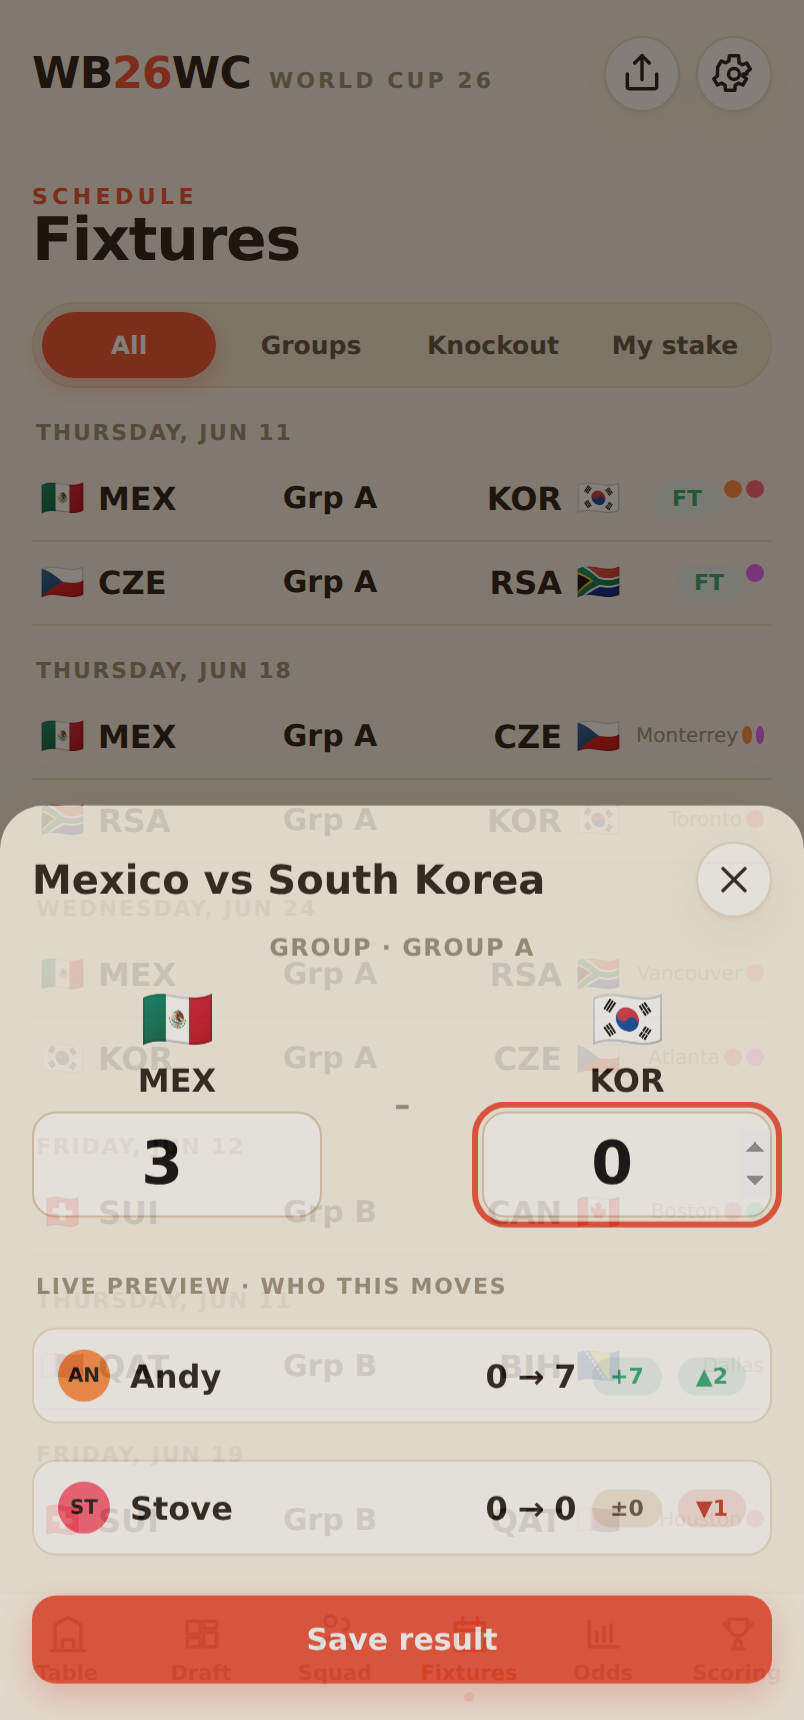
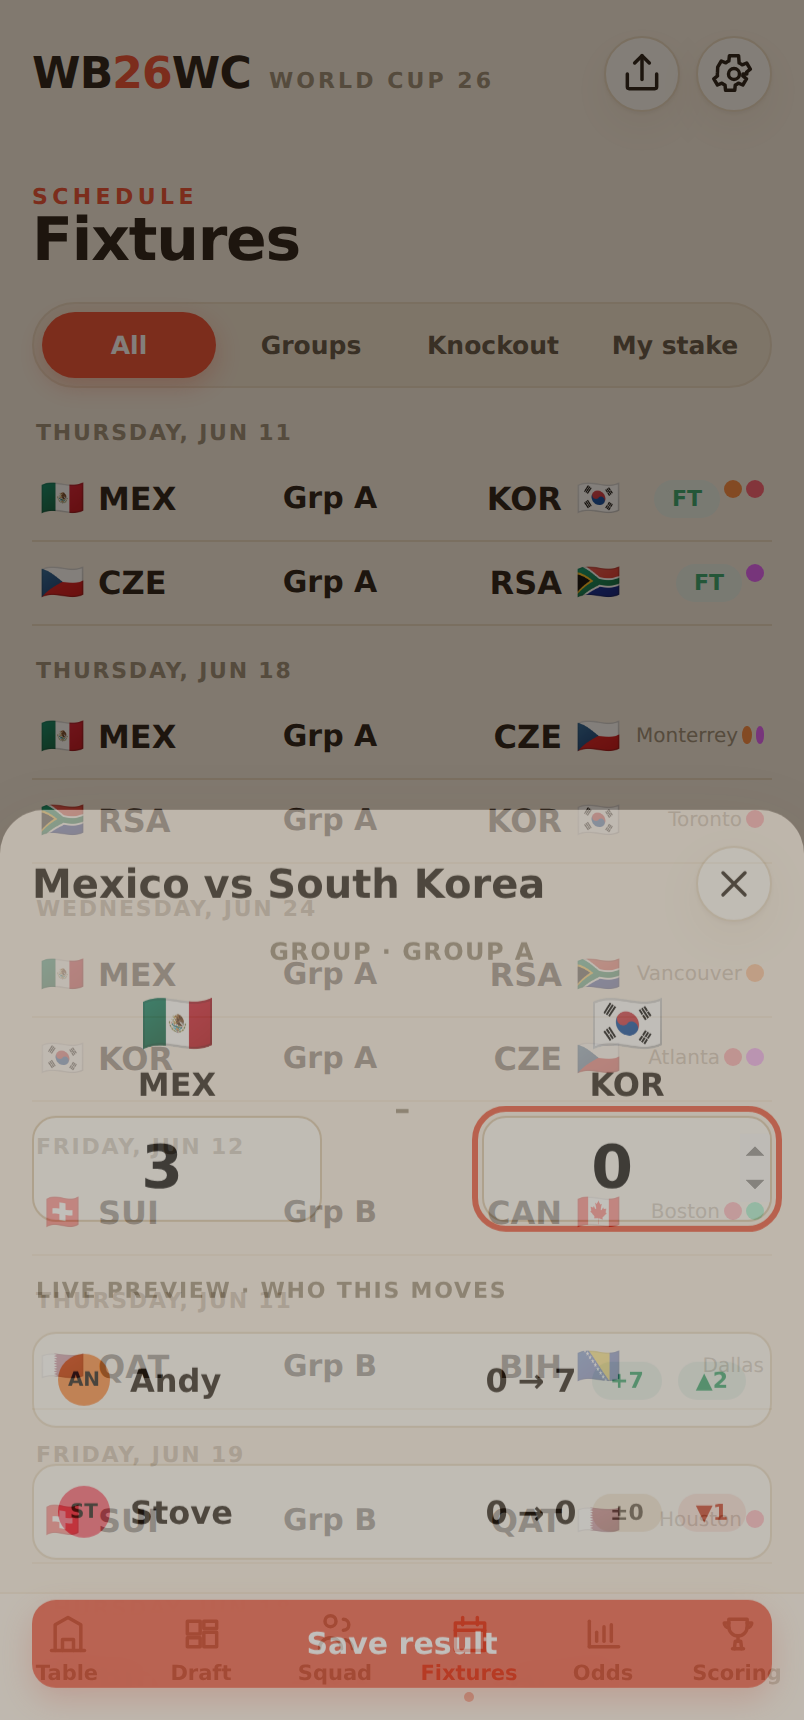
Make WB26WC self-contained: drop Google Fonts CDN
Remove the Google-Fonts <link> from web/index.html so the app has zero
external resources — works fully offline and throws no console errors. The
CSS already carries system-font fallbacks (system-ui / -apple-system).
Re-ran the Playwright driver: standings, draft, result entry, and the
10,000-run Monte-Carlo projection all pass with 'no console errors'.

https://claude.ai/code/session_01EHhkkzYEi3HfMF5dNr3LBf

diff --git a/web/index.html b/web/index.html
@@ -9,9 +9,6 @@
     <link rel="manifest" href="manifest.webmanifest" />
     <link rel="icon" href="favicon.svg" />
     <link rel="apple-touch-icon" href="icons/icon.svg" />
-    <link rel="preconnect" href="https://fonts.googleapis.com" />
-    <link rel="preconnect" href="https://fonts.gstatic.com" crossorigin />
-    <link href="https://fonts.googleapis.com/css2?family=Archivo:wght@700;800&family=Inter:wght@400;600;700;800&display=swap" rel="stylesheet" />
   </head>
   <body>
     <div id="app"></div>